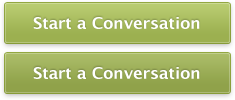
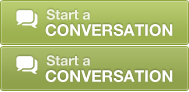
Styles changes to header, universal border radius, create convo button

diff --git a/public/stylesheets/master.css b/public/stylesheets/master.css
@@ -457,14 +457,16 @@ text-decoration: none;
 .pagination span {color: #999;}
 .pagination .previous_page {
 border-left: 1px solid #ccc;
--webkit-border-radius: 8px 0 0 8px;
--moz-border-radius: 8px 0 0 8px;
-border-radius: 8px 0 0 8px;
+-moz-border-radius: 4px 0 0 4px;
+-webkit-border-radius: 4px 0 0 4px;
+-o-border-radius: 4px 0 0 4px;
+border-radius: 4px 0 0 4px;
 }
 .pagination .next_page {
--webkit-border-radius: 0 8px 8px 0;
--moz-border-radius: 0 8px 8px 0;
-border-radius: 0 8px 8px 0;
+-moz-border-radius: 0 4px 4px 0;
+-webkit-border-radius: 0 4px 4px 0;
+-o-border-radius: 0 4px 4px 0;
+border-radius: 0 4px 4px 0;
 }
 .pagination em {
 background: #fff;
@@ -611,10 +613,14 @@ box-shadow: none;
 
 /* Header and Logo */
 
+#header-wrapper {
+background: url(/images/header_bg.png) no-repeat bottom center;
+}
 #header {
+border-bottom: 1px solid #c3c6cd;
 line-height: 1.6em;
-margin: auto;
-padding: 0 10px;
+margin: 0 auto;
+padding: 17px 10px 22px;
 text-align: left;
 width: 940px;
 }
@@ -623,7 +629,6 @@ background: url(/images/cc_logo_3.png) no-repeat;
 display: block;
 float: left;
 height: 62px;
-margin-top: 13px;
 text-indent: -9999px;
 width: 173px;
 }
@@ -633,23 +638,10 @@ text-transform: uppercase;
 color: #fff;
 }
 #header #header-utility {
-background: #ededed;
-border: 1px solid #c3c3c3;
 float: right;
-margin: 15px 0;
-padding: 10px 15px;
-width: 260px;
--moz-border-radius: 8px;
--webkit-border-radius: 8px;
-border-radius: 8px;
--moz-box-shadow: 0 1px 1px rgba(0,0,0,.2) inset;
--webkit-box-shadow: 0 1px 1px rgba(0,0,0,.2) inset;
-box-shadow: 0 1px 1px rgba(0,0,0,.2) inset;
+margin: 0;
 }
-#login-status {
-border-bottom: 1px solid #b8b8b8;
-padding-bottom: 10px;
-}
+#login-status {}
 #login-status a.user-link {
 font-size: 12px;
 text-transform: none;
@@ -678,13 +670,7 @@ text-transform: uppercase;
 div#ajax-login-container {
 padding: 20px;
 }
-div#ajax-login-container p#facebook{
-  padding :0px 0px 0px 160px;
-}
-.important {
-border-top: 1px solid #fff;
-padding-top: 10px;
-}
+div#ajax-login-container p#facebook {padding: 0px 0px 0px 160px;}
 .important a {font-weight: bold;}
 .build-commons {
 background: url(/images/build_commons.png) no-repeat 0 0;
@@ -724,10 +710,12 @@ line-height: 25px;
 
 ul#main-nav {
 float: left;
-margin-top: 13px;
+margin-left: 67px;
 overflow: hidden;
 }
 ul#main-nav li {
+background-position: 0 0;
+background-repeat: no-repeat;
 float: left;
 list-style-type: none;
 }
@@ -737,6 +725,7 @@ font-weight: bold;
 margin-right: 30px;
 text-decoration: none;
 text-transform: uppercase;
+text-shadow: 0 1px 1px rgba(255,255,255,1);
 }
 ul#main-nav li a span {
 color: #666;
@@ -745,6 +734,23 @@ font-size: .916em;
 line-height: 1em;
 text-transform: none;
 }
+ul#main-nav li#conversations {
+background-image: url(../images/nav_convo.png);
+padding-left: 27px;
+}
+ul#main-nav li#issues {
+background-image: url(../images/nav_issues.png);
+padding-left: 23px;
+}
+ul#main-nav li#community {
+background-image: url(../images/nav_comm.png);
+padding-left: 32px;
+}
+ul#main-nav li#commons {
+background-image: url(../images/nav_build.png);
+padding-left: 26px;
+}
+
 
 /* Selected Nav States */
 
@@ -1240,9 +1246,10 @@ background: #eee url(/images/simple_grad.gif) repeat-x top;
 border: 4px solid #979daa;
 min-height: 280px;
 padding: 5px;
--webkit-border-radius: 8px;
--moz-border-radius: 8px;
-border-radius: 8px;
+-moz-border-radius: 4px;
+-webkit-border-radius: 4px;
+-o-border-radius: 4px;
+border-radius: 4px;
 }
 div.three-col-sm div.call-out .photobank {
 border-top: 1px solid #cfd0d4;
@@ -1361,9 +1368,9 @@ margin-left: 0;
 list-style-type: none;
 }
 .aside .f-conv ul.feat-list li a {
-background-color: #eaeaea;
+background-color: #fff;
 background-repeat: no-repeat;
-border: 1px solid #9a9a9a;
+border: 1px solid #c0c0c0;
 color: #777;
 font-weight: bold;
 display: block;
@@ -1371,16 +1378,18 @@ margin-bottom: .8em;
 padding: 6px 10px 6px 40px;
 text-decoration: none;
 text-shadow: 0 1px 1px rgba(255,255,255,1);
--webkit-border-radius: 8px;
--moz-border-radius: 8px;
-border-radius: 8px;
--webkit-box-shadow: 0 2px 3px rgba(0,0,0,.15);
--moz-box-shadow: 0 2px 3px rgba(0,0,0,.15);
-box-shadow: 0 2px 3px rgba(0,0,0,.15);
+-moz-border-radius: 4px;
+-webkit-border-radius: 4px;
+-o-border-radius: 4px;
+border-radius: 4px;
+-webkit-box-shadow: 0 1px 2px rgba(0, 0, 0, 0.12);
+-moz-box-shadow: 0 1px 2px rgba(0, 0, 0, 0.12);
+-o-box-shadow: 0 1px 2px rgba(0, 0, 0, 0.12);
+box-shadow: 0 1px 2px rgba(0, 0, 0, 0.12);
 }
 .aside .f-conv ul.feat-list li a:hover, .aside .f-conv ul.feat-list li a.active {
 background-color: #dbedf5;
-border-color: #7a9ba7;
+border-color: #9db4bc;
 color: #51778e;
 }
 .aside .f-conv ul.feat-list li a:active {
@@ -1423,18 +1432,20 @@ margin-bottom: 20px;
 
 .convo-create {
 background: #dbedf5 url(../images/convo_create_bg.gif) repeat-x bottom;
-border: 1px solid #7a9ba7;
+border: 1px solid #9db4bc;
 color: #51778e;
 font-size: 1.167em;
 margin-bottom: 20px;
 padding: 20px 20px 15px;
 text-shadow: 0 1px 1px rgba(255,255,255,.9);
--moz-border-radius: 8px;
--webkit-border-radius: 8px;
-border-radius: 8px;
--moz-box-shadow: 0 1px 3px rgba(0, 0, 0, 0.3);
--webkit-box-shadow: 0 1px 3px rgba(0, 0, 0, 0.3);
-box-shadow: 0 1px 3px rgba(0, 0, 0, 0.3);
+-moz-border-radius: 4px;
+-webkit-border-radius: 4px;
+-o-border-radius: 4px;
+border-radius: 4px;
+-webkit-box-shadow: 0 2px 3px rgba(0, 0, 0, 0.15);
+-moz-box-shadow: 0 2px 3px rgba(0, 0, 0, 0.15);
+-o-box-shadow: 0 2px 3px rgba(0, 0, 0, 0.15);
+box-shadow: 0 2px 3px rgba(0, 0, 0, 0.15);
 }
 .convo-create p {
 float: left;
@@ -1446,10 +1457,10 @@ width: 320px;
 background: url(../images/create_convo_btn.png) no-repeat 0 0;
 display: block;
 float: right;
-height: 50px;
+height: 46px;
 outline: none;
 text-indent: -9999px;
-width: 235px;
+width: 189px;
 }
 .convo-create .convo-create-btn:hover {background-position: bottom;}
 
